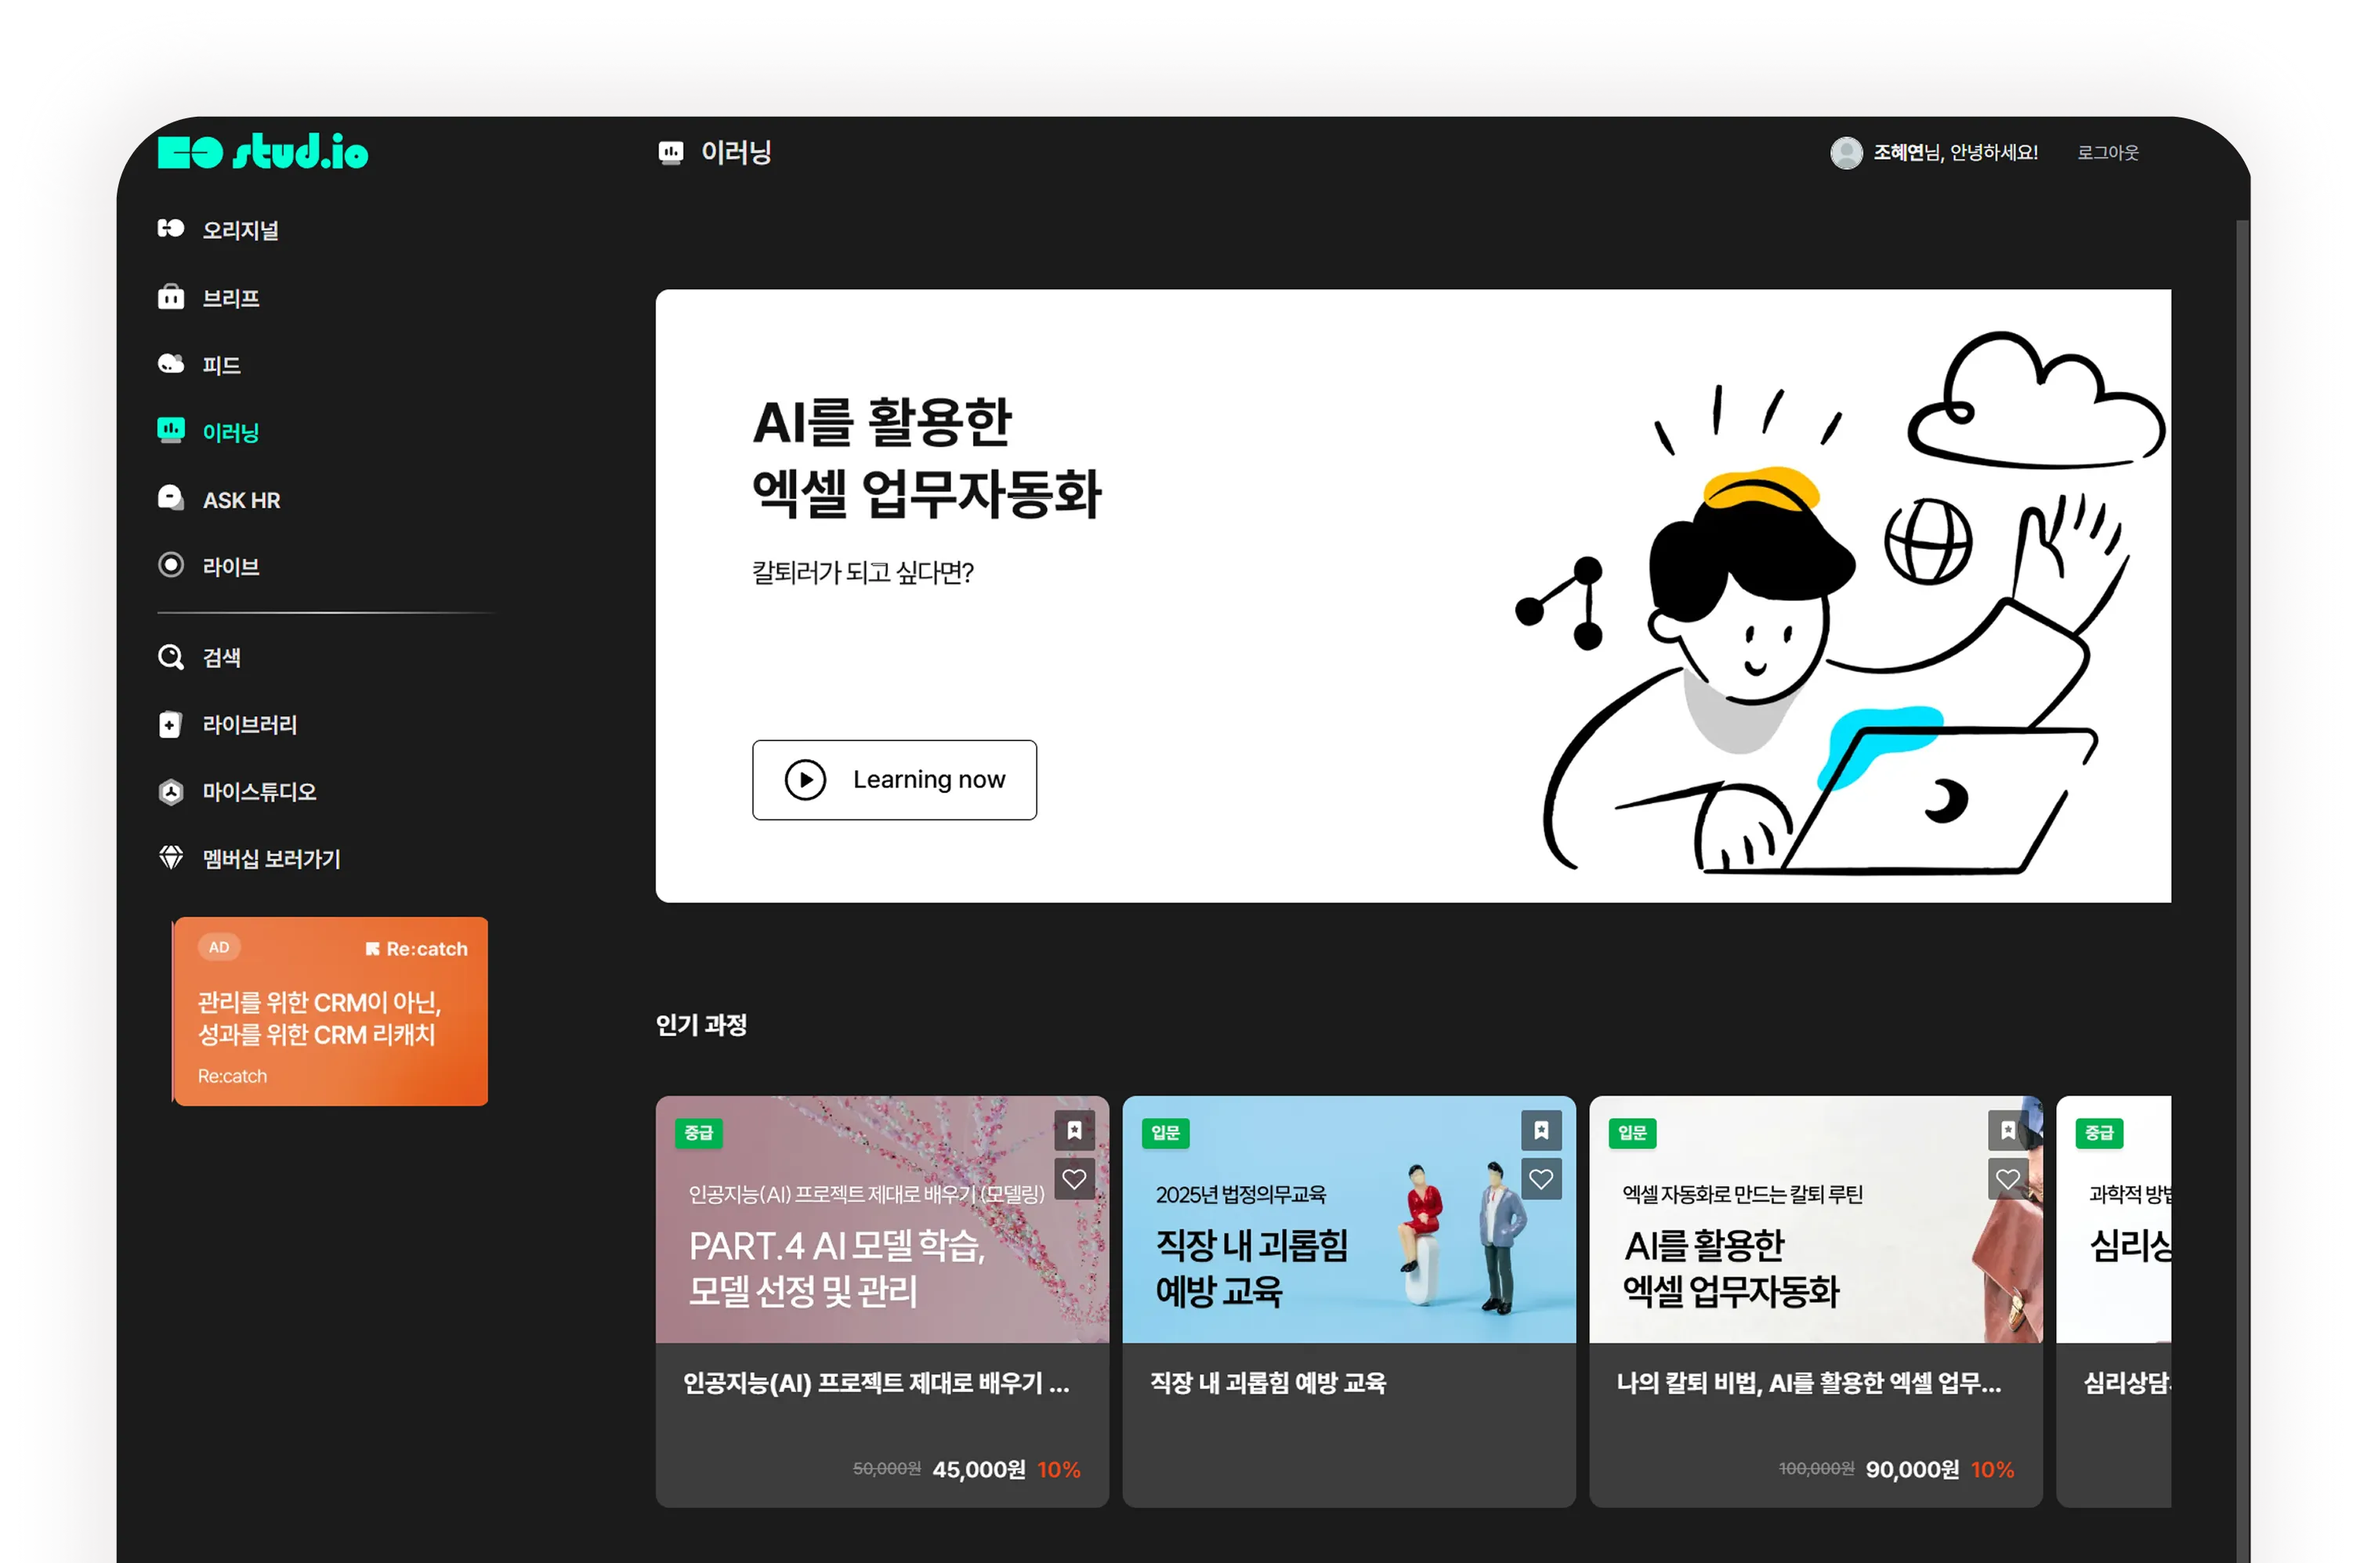
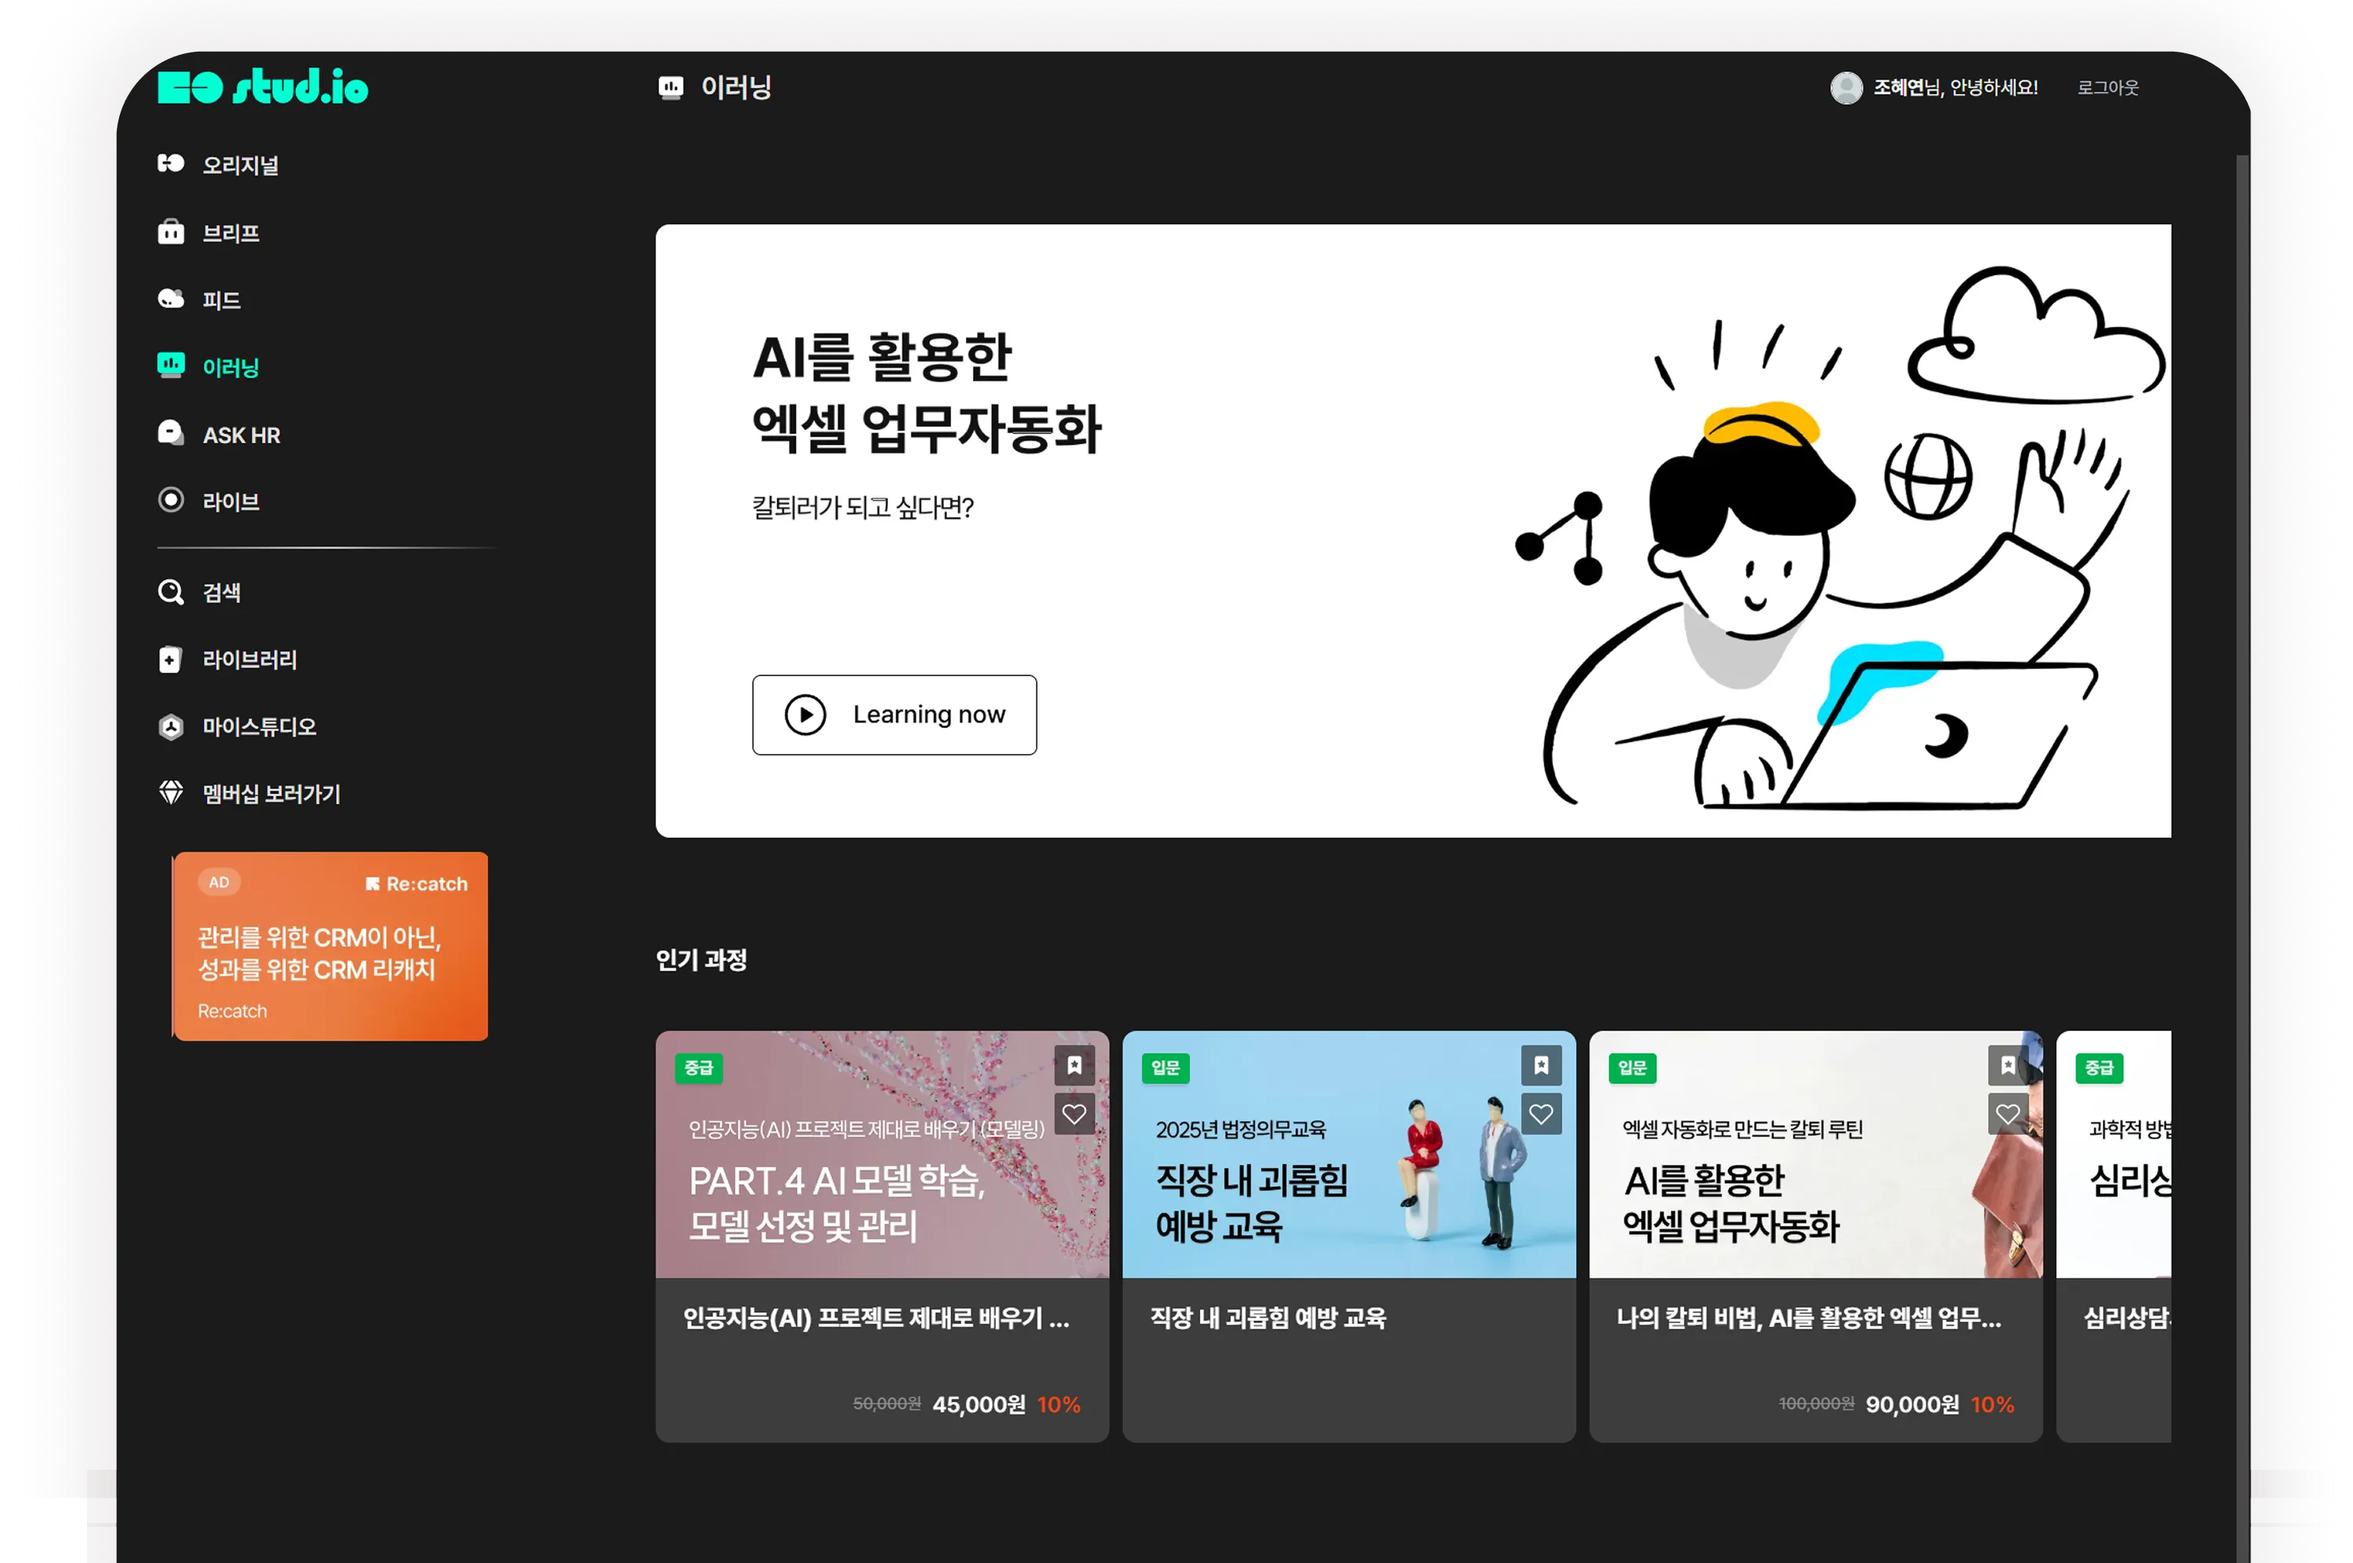
LXP 3차 업데이트

diff --git a/lxp/lxp.css b/lxp/lxp.css
@@ -9,7 +9,7 @@ a,p,h1,h2,h3,h4,h5,h6,ul,li,dl,dt,dd {margin: 0; padding: 0;}
 
 /* nav */
 nav {position: fixed; top: 60px; right: 60px; display: flex; gap: 10px; z-index: 10;}
-nav a {color: #1b1b1b; font-weight: 600; letter-spacing: -0.64px; text-decoration: none; padding: 10px 20px; background: #09F4D8; border-radius: 10px; opacity: 0.5;}
+nav a {font-weight: 800; letter-spacing: -0.64px; color: #fff; text-decoration: none; padding: 10px 20px; background: #09F4D8; border-radius: 10px; opacity: 0.5;}
 nav a:hover {font-weight: 700;}
 nav a.active {opacity: 1;}
 
@@ -50,7 +50,7 @@ nav a.active {opacity: 1;}
 .main .modal#modal4 img {width: 670px;}
 .main .modal#modal4 p {position: relative; padding: 20px; margin-top: -30px; background: #6FC9CD;box-sizing: border-box; border-radius: 10px; z-index: 2;}
 
-.main .modal#modal5 {bottom: 160px; width: 340px; background: unset;}
+.main .modal#modal5 {bottom: 90px; width: 380px; left: 180px; background: unset;}
 .main .modal#modal5 img {width: 100%;}
 
 .main .modal#modal6 {bottom: 140px; width: 800px; background: unset;}
@@ -70,5 +70,5 @@ dotlottie-player {
   transform: translate(-50%, -50%);
 }
 
-.more {position: absolute; padding: 10px 30px; background: linear-gradient(270deg, #09F4D8 0%, #058E7E 100%); color: #fff; border-radius: 10px; font-size: 18px; text-decoration: none; bottom: 40px; right: 40px; z-index: 10; font-family: 'KMA'; font-size: 30px; display: flex; align-items: center; justify-content: center; }
+.more {position: absolute; padding: 15px 30px 10px; background: linear-gradient(270deg, #09F4D8 0%, #058E7E 100%); color: #fff; border-radius: 10px; font-size: 18px; text-decoration: none; bottom: 40px; right: 40px; z-index: 10; font-family: 'KMA'; font-size: 30px; display: flex; align-items: center; justify-content: center; }
 .more img {width: 30px; margin-left: 8px;}

diff --git a/lxp/pages/education.html b/lxp/pages/education.html
@@ -55,7 +55,7 @@
     </div>
   </div>
 
-  <a class="more button" id="button7">
+  <a class="more button" id="button7" style="cursor: pointer;">
     CLEAR
   </a>
 </body>
